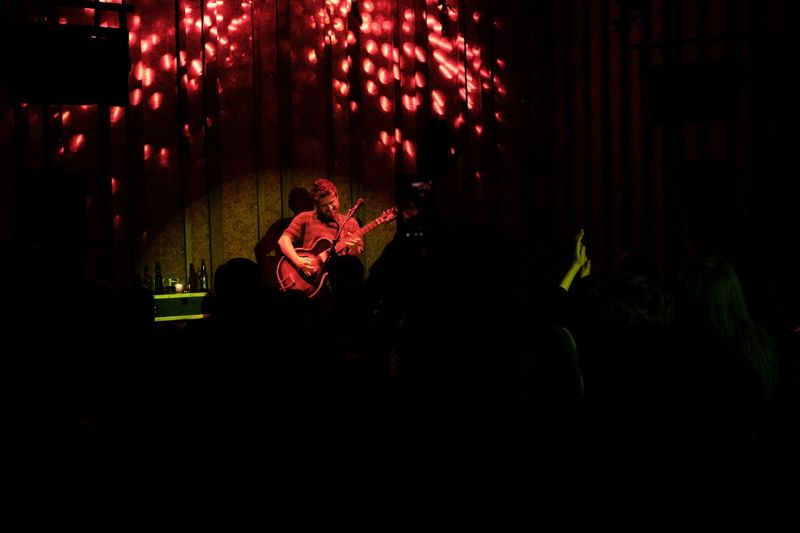
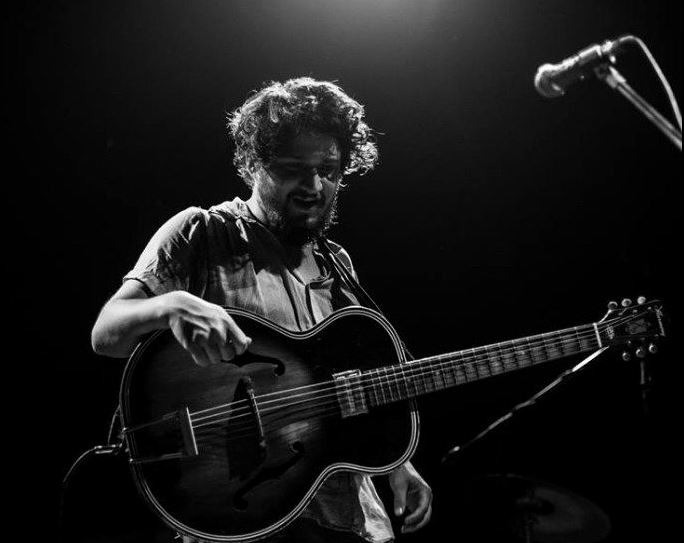
Design: replace Polaroid index photos with new uploads and adjust aspect ratios

diff --git a/styles.css b/styles.css
@@ -432,13 +432,13 @@ button { font-family: inherit; cursor: pointer; }
 }
 .photo-2 {
   width: 58%;
-  aspect-ratio: 2 / 3;
+  aspect-ratio: 9 / 16;
   transform: rotate(8deg) translate(45px, 20px);
   z-index: 2;
 }
 .photo-3 {
   width: 76%;
-  aspect-ratio: 3 / 2;
+  aspect-ratio: 5 / 4;
   transform: rotate(-2deg) translate(5px, -25px);
   z-index: 3;
 }
